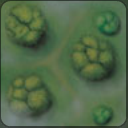
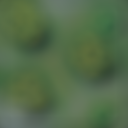
Pictures updated

diff --git a/JackalHost/Monitors/TileControl.cs b/JackalHost/Monitors/TileControl.cs
@@ -40,8 +40,8 @@ namespace JackalHost.Monitors
                     break;
                 case TileType.Grass:
                     int index = ((int) (RandomValue*4)) + 1; //rnd.Next(1, 5);
-                    relativePath = @"Content\Fields\empty" + index + @".png";
-                    //relativePath = @"Content\Fields\empty1.png";
+                    relativePath = @"Content\Fields\empty1.png";
+                    //relativePath = @"Content\Fields\1.png";
                     break;
 		        case TileType.Chest1:
                     relativePath = @"Content\Fields\chest1.png";
